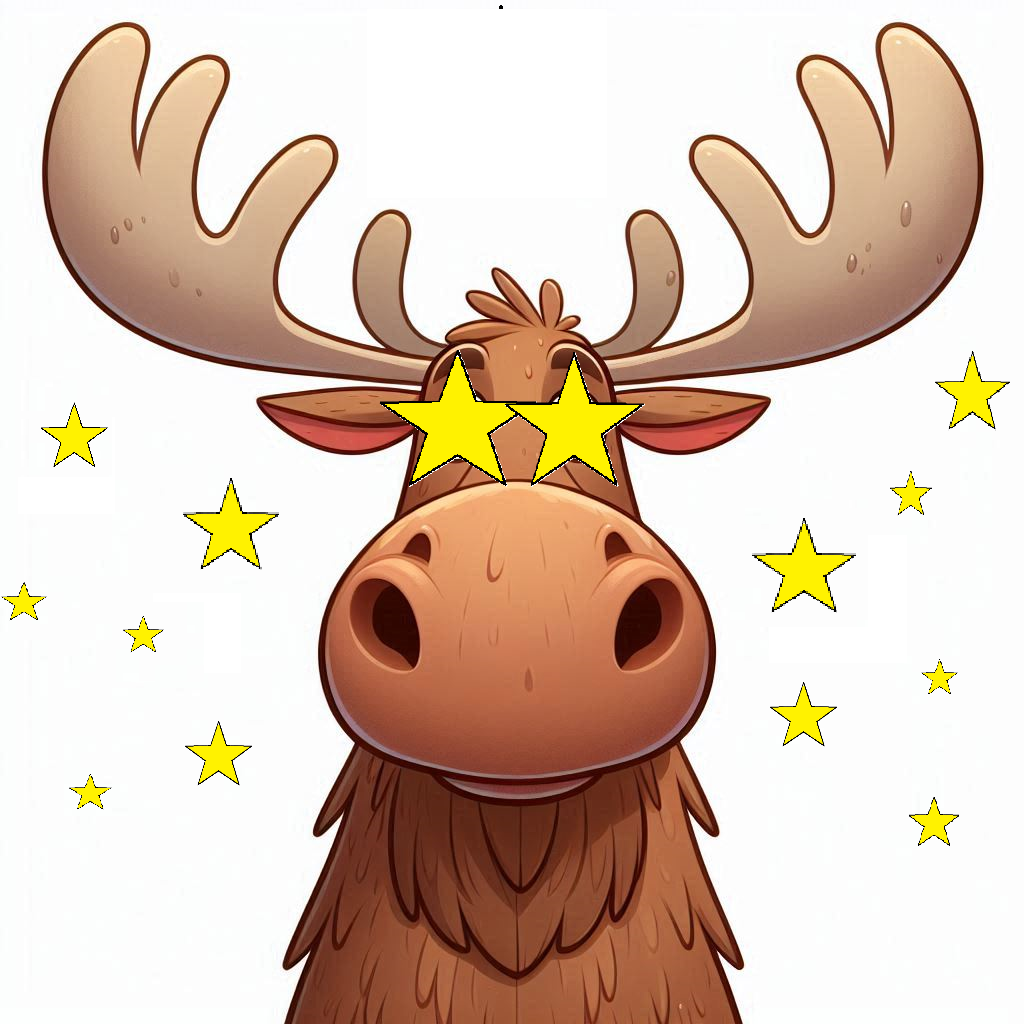
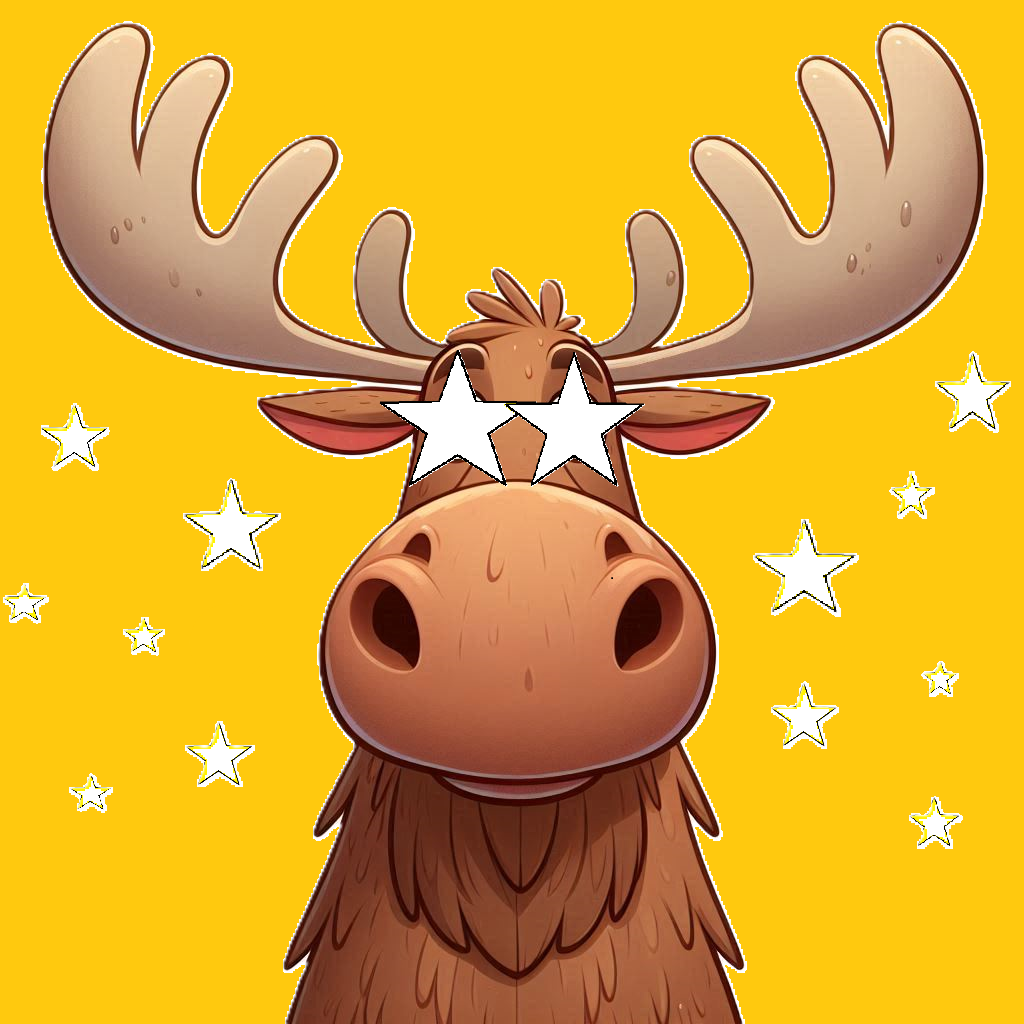
Design the reward page

diff --git a/end.html b/end.html
@@ -2,7 +2,7 @@
 <html lang="de">
 <head>
     <meta charset="UTF-8">
-    <title>Scorebar mit Status</title>
+    <title>End of the game</title>
     <!-- bootstrap CSS -->
     <link href="https://maxcdn.bootstrapcdn.com/bootstrap/4.5.2/css/bootstrap.min.css" rel="stylesheet">
     <style>
@@ -13,7 +13,8 @@
             height: 100vh;
             margin: 0;
             font-size: 30px;
-            background-color: #fcac0038;
+            background-color: #FFC90E;
+            position: relative;
         }
 
         .scorebar-container {
@@ -22,8 +23,10 @@
         }
 
         .scorebar {
+            margin:15px;
+            margin-top:50px;
             width: 50px;
-            height: 1600px;
+            height: 800px;
             background-color: #ddd;
             position: relative;
         }
@@ -50,6 +53,7 @@
             font-size: 20px;
             margin-left: 20px;
         }
+
         .quiz-container {
             background-color: #fff;
             border-radius: 10px;
@@ -58,7 +62,7 @@
             text-align: center; /* Ensures all child elements are centered */
             width: 80%;
             /*max-width: 00px;*/
-            margin: 0 auto; /* Centers the container itself */
+            margin: 0 auto; /* Centers the container itself */
         }
 
         .scoreboard {
@@ -75,7 +79,6 @@
         #question-number {
             font-size: 20px;
         }
-      
 
         .intro-container, .quiz-container {
             display: none;
@@ -102,73 +105,102 @@
             height: 5px;
             background-color: darkred;
         }
-        .fail-container{
+
+        .fail-container {
             border-radius: 15px;
-           
+        }
+
+        .intro-container img {
+            position: absolute;
+            top: -150px;
+            left: 50%;
+            transform: translateX(-50%);
+        }
+
+        .intro-container {
+            margin-top: 100px; /* Moves the container down */
+        }
+
+        .level-title {
+            font-size: 50px;
+            font-weight: bold;
+            margin-bottom: 10px;
         }
     </style>
 </head>
 <body>
-  <div class="intro-container fail-container visible" style="background-color: white;
-  margin: 20px;box-shadow: 0 0 10px rgba(0, 0, 0, 0.5);">
-    
-      
-    <div class="scorebar-container">
+
+  <div class="intro-container fail-container visible" style="background-color: white; margin: 20px; box-shadow: 0 0 10px rgba(0, 0, 0, 0.5); position: relative;">
+    <div class="scorebar-container" style="width: 700px;">
+      <img style="bottom: 200px;margin-top:-300px" width="450" src="assets/happy_elk.png"/>
       <div class="scorebar">
           <div class="score-level" style="top: 0;">Expert</div>
           <div class="score-level" style="top: 50%;">Intermediate</div>
           <div class="score-level" style="top: 100%;">Newbie</div>
           <div class="score" id="score"></div>
       </div>
-      <div class="score-message">
-          Gesamtpunktzahl <br> <span style="
-            font-size:80px" id="totalScore">0</span>
+      <div class="score-message" style="margin-left: 190px;
+    scale: 2.0;">
+          <div id="levelTitle" class="level-title"></div>
+          Gesamtpunktzahl <br> <span style="font-size: 80px;" id="totalScore">0</span>
       </div>
+    </div>
+    <button id="restart-btn" style="margin: 5px; font-size: 50px;border-color:black;background-color: #fda800;" class="btn btn-primary btn2" onclick="restartQuiz()">Back to the Map</button>
   </div>
-      <button id="restart-btn btn btn-primary btn2" onclick="restartQuiz()">Back to the Map</button>
-  </div>
-   
 
-    <script>
-        // Funktion zum Holen von Cookies
-        function getCookie(name) {
-            let match = document.cookie.match(new RegExp('(^| )' + name + '=([^;]+)'));
-            if (match) {
-                return parseInt(match[2]);
-            } else {
-                return 0;
-            }
-        }
+  <script>
+      // Funktion zum Holen von Cookies
+      function getCookie(name) {
+          let match = document.cookie.match(new RegExp('(^| )' + name + '=([^;]+)'));
+          if (match) {
+              return parseInt(match[2]);
+          } else {
+              return 0;
+          }
+      }
 
-        // Gesamtpunktestand berechnen und runden
-        function calculateTotalScore() {
-            let totalScore = 0;
-            for (let i = 1; i <= 5; i++) {
-                const score = getCookie('lvl' + i);
-                if (score) {
-                    totalScore += score;
-                }
-            }
-            return Math.round(totalScore); // Runden auf ganze Zahl
-        }
+      // Gesamtpunktestand berechnen und runden
+      function calculateTotalScore() {
+          let totalScore = 0;
+          for (let i = 1; i <= 5; i++) {
+              const score = getCookie('lvl' + i);
+              if (score) {
+                  totalScore += score;
+              }
+          }
+          return Math.round(totalScore); // Runden auf ganze Zahl
+      }
 
-        // Aktualisiere die Scorebar und die Punktzahl
-        function updateScoreBar(score) {
-            const scoreBar = document.getElementById('score');
-            const totalScoreElement = document.getElementById('totalScore');
+      // Aktualisiere die Scorebar, die Punktzahl und den Level-Titel
+      function updateScoreBar(score) {
+          const scoreBar = document.getElementById('score');
+          const totalScoreElement = document.getElementById('totalScore');
+          const levelTitle = document.getElementById('levelTitle');
 
-            let heightPercent = (score - 500) / 1000 * 100;
-            heightPercent = Math.max(0, Math.min(100, heightPercent)); // Begrenze den Wert zwischen 0 und 100
-            scoreBar.style.height = heightPercent + '%';
+          let heightPercent = (score - 500) / 1000 * 100;
+          heightPercent = Math.max(0, Math.min(100, heightPercent)); // Begrenze den Wert zwischen 0 und 100
+          scoreBar.style.height = heightPercent + '%';
 
-            totalScoreElement.textContent = score;
-        }
+          totalScoreElement.textContent = score;
 
-        // Wenn das Dokument geladen ist, zeige die Scorebar an
-        document.addEventListener("DOMContentLoaded", () => {
-            const totalScore = calculateTotalScore();
-            updateScoreBar(totalScore);
-        });
-    </script>
+          // Bestimme den Level-Titel basierend auf dem Score
+          if (score >= 1500) {
+              levelTitle.textContent = 'Expert';
+          } else if (score >= 1000) {
+              levelTitle.textContent = 'Intermediate';
+          } else {
+              levelTitle.textContent = 'Newbie';
+          }
+      }
+
+      // Wenn das Dokument geladen ist, zeige die Scorebar an
+      document.addEventListener("DOMContentLoaded", () => {
+          const totalScore = calculateTotalScore();
+          updateScoreBar(totalScore);
+      });
+      function restartQuiz(){
+        window.location.href = "map.html";
+      }
+  </script>
 </body>
 </html>

diff --git a/map.html b/map.html
@@ -2,7 +2,7 @@
 <html lang="en">
 <head>
     <meta charset="UTF-8">
-    <title>Karte von Joensuu</title>
+    <title>Map</title>
     
     <!-- bootstrap CSS -->
     <link href="https://maxcdn.bootstrapcdn.com/bootstrap/4.5.2/css/bootstrap.min.css" rel="stylesheet">
